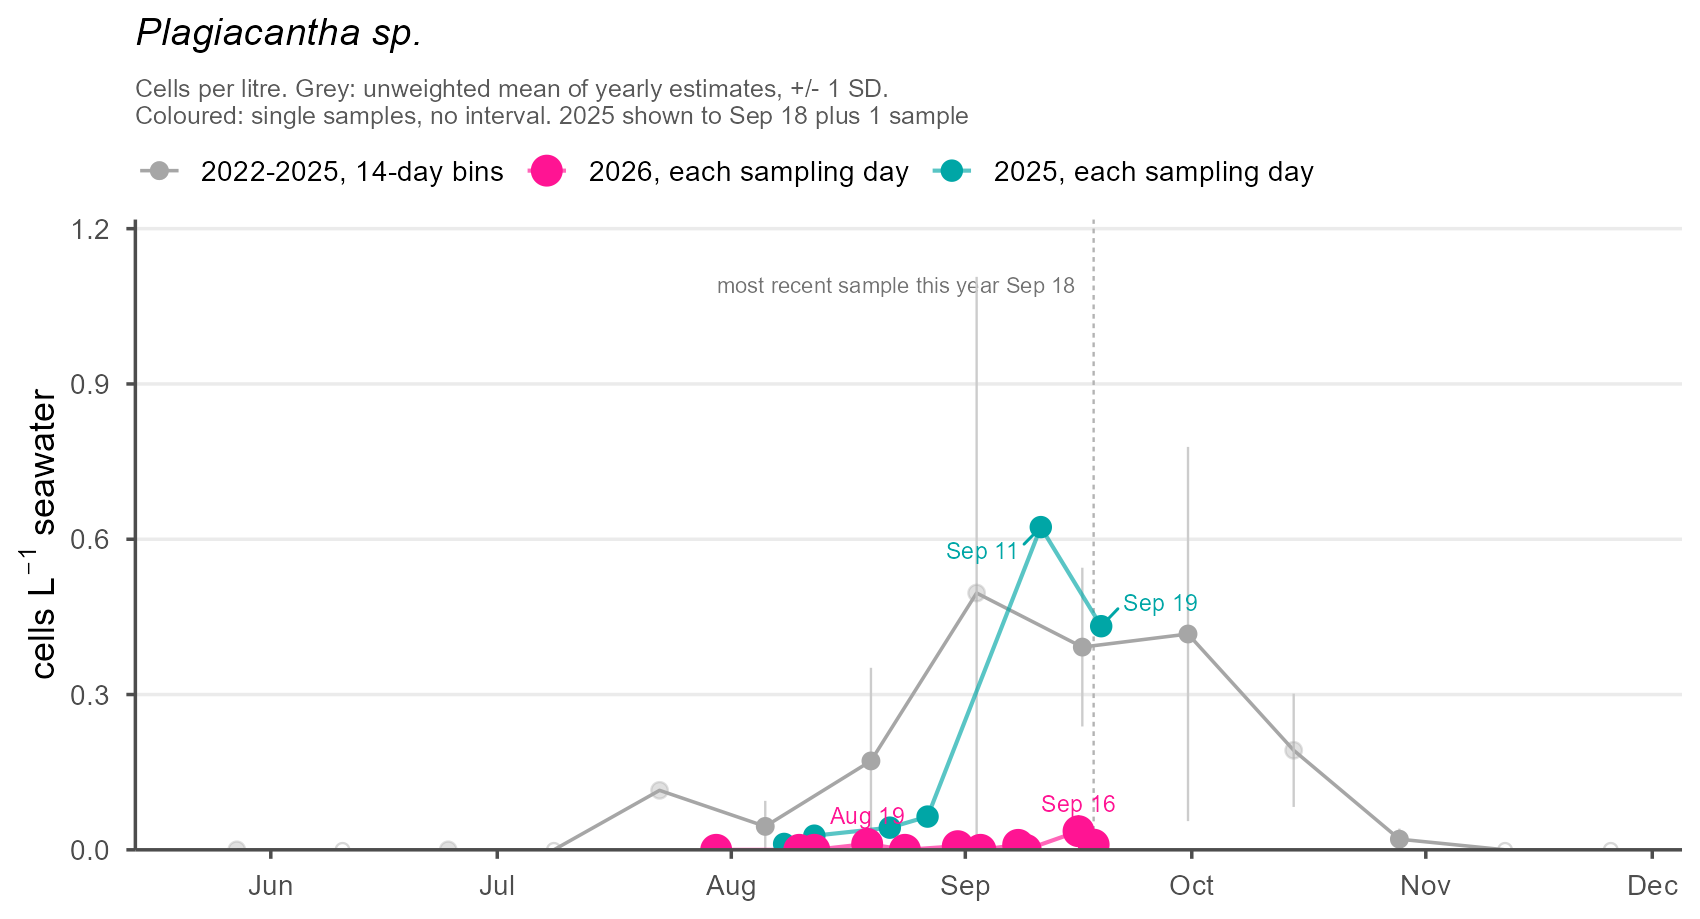
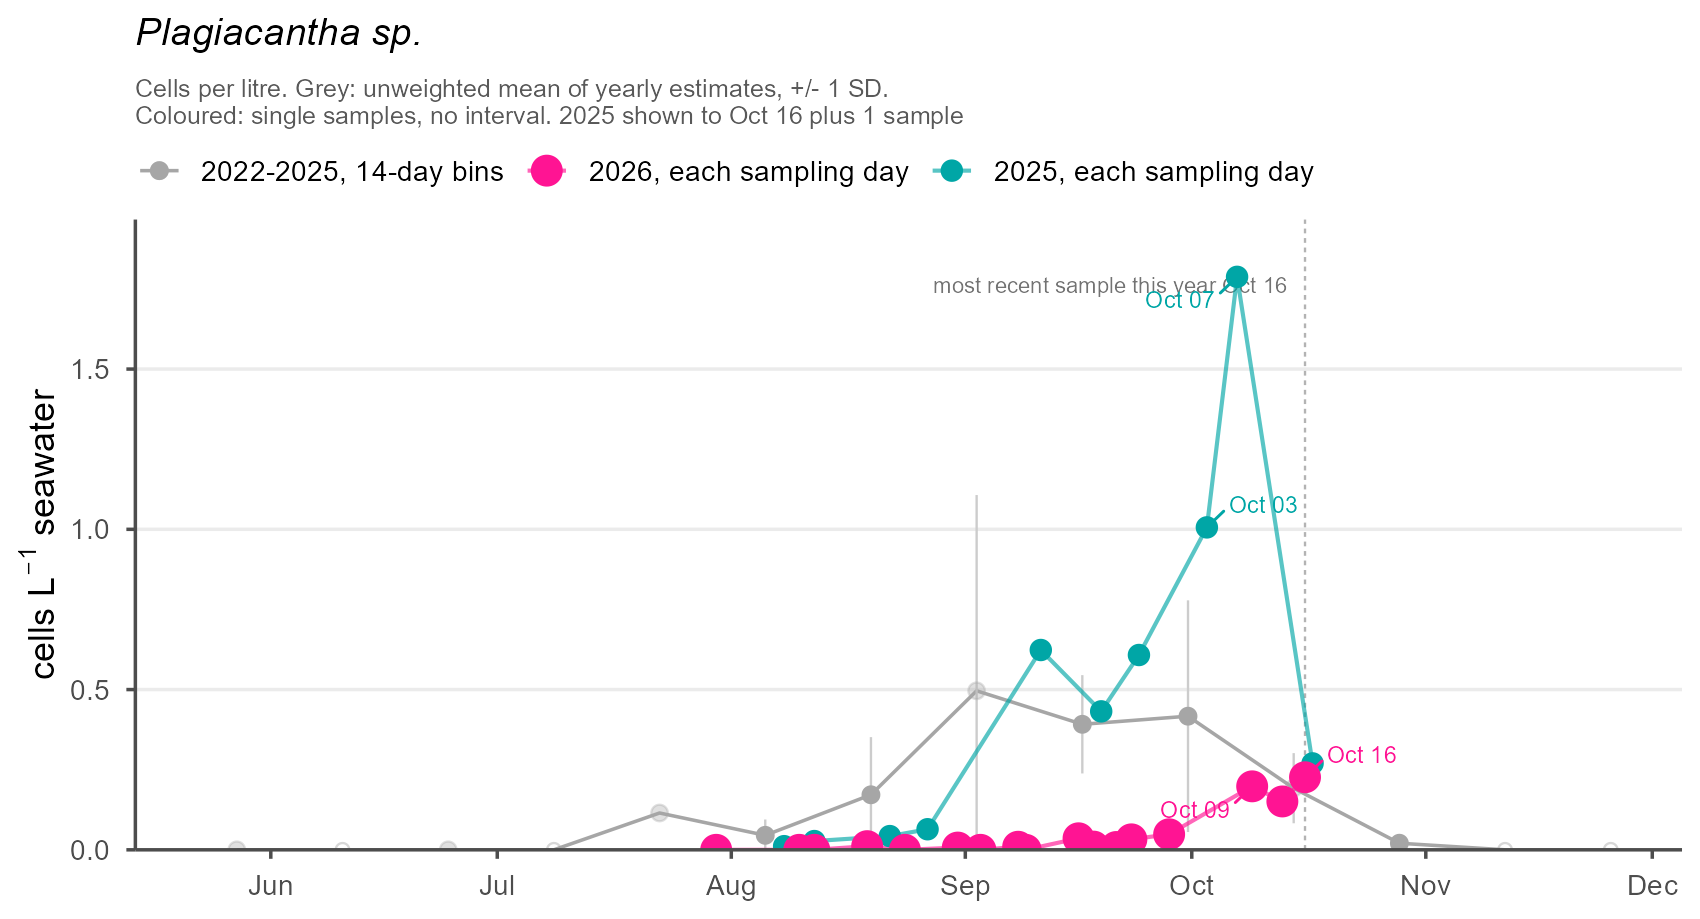
update counts

diff --git a/docs/projects/plagiacantha-genome.html b/docs/projects/plagiacantha-genome.html
@@ -233,7 +233,7 @@ Feeding on a green alga.
 </figure>
 </div>
 <div class="figure-text">
-<p><strong>Last sampled September 18, 2026.</strong></p>
+<p><strong>Last sampled October 16, 2026.</strong></p>
 <p>Average counts cover the period 2022 to 2025. The current season is plotted against it, with last year’s counts carried one sampling date further ahead, so the plot shows not only where the bloom is but what happened next the last time around.</p>
 </div>
 </div>
@@ -274,6 +274,10 @@ The same cell after releasing swarmers.
 <p>The last reported bloom of this species here was in 2017, outside our sampling window, so it does not appear in our counts and we have no direct comparison. The radiolarians may have moved deeper, which would keep them from reaching the dock on the tides, or they may simply not be growing in the shallows while the dinoflagellate is there.</p>
 <p>At around 20 microns the dinoflagellate passes through our 30 micron net, so we cannot see the bloom in our own tows either.</p>
 <p>We will continue monitoring at the dock and will increase sampling in deeper water to make sure we have access to cells for the genomics project.</p>
+</section>
+<section id="update-16-october-2026" class="level3">
+<h3 data-anchor-id="update-16-october-2026">Update, 16 October 2026</h3>
+<p>Visiting scientists passed through the lab over the past month and we made progress on genome sequencing. More on that later. The bloom at the dock is finally picking up now–later than I have ever observed it before. I will continue to monitor the bloom to track the peak and when it finally vanishes until next year.</p>
 </section>
 <section id="how-it-works" class="level2">
 <h2 data-anchor-id="how-it-works">How it works</h2>

diff --git a/docs/index.html b/docs/index.html
@@ -269,7 +269,7 @@ Ocean Exploration, Innovation, and Discovery
 </div>
 </div></a>
 </div>
-<div class="g-col-1" data-index="1" data-listing-file-modified-sort="1789914512653" data-listing-reading-time-sort="6" data-listing-word-count-sort="1021">
+<div class="g-col-1" data-index="1" data-listing-file-modified-sort="1792202069000" data-listing-reading-time-sort="6" data-listing-word-count-sort="1082">
 <a href="./projects/plagiacantha-genome.html" class="quarto-grid-link">
 <div class="quarto-grid-item card h-100 card-left">
 <p class="card-img-top">

diff --git a/docs/projects.html b/docs/projects.html
@@ -279,7 +279,7 @@ Ocean Exploration, Innovation, and Discovery
 </div>
 </div></a>
 </div>
-<div class="g-col-1" data-index="1" data-listing-file-modified-sort="1789914512653" data-listing-reading-time-sort="6" data-listing-word-count-sort="1021">
+<div class="g-col-1" data-index="1" data-listing-file-modified-sort="1792202069000" data-listing-reading-time-sort="6" data-listing-word-count-sort="1082">
 <a href="./projects/plagiacantha-genome.html" class="quarto-grid-link">
 <div class="quarto-grid-item card h-100 card-left">
 <p class="card-img-top">
